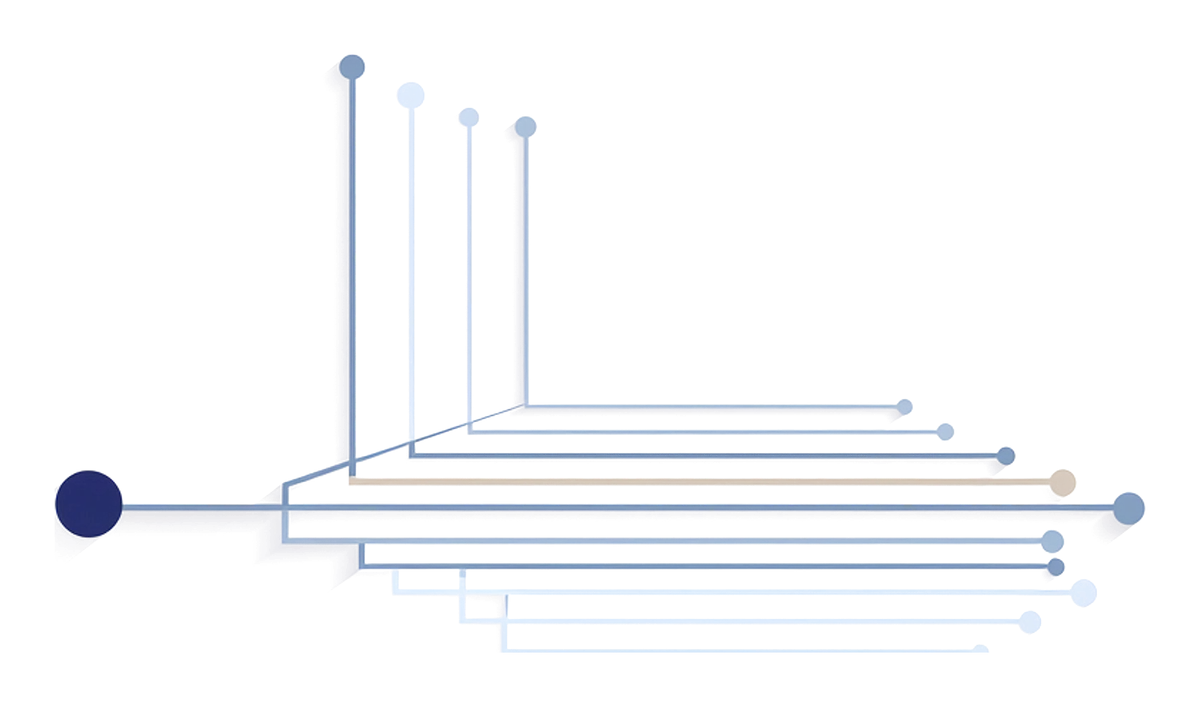
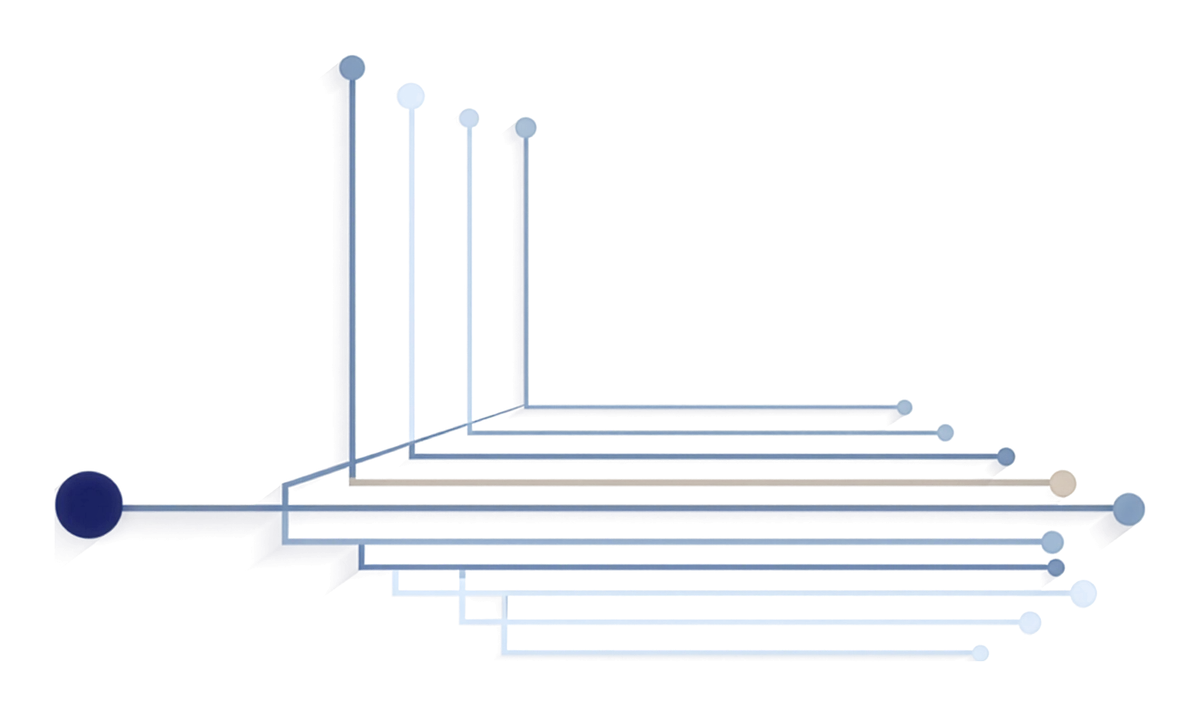
State power distribution (south) hero from Firefly Upscaler 4x (31 of 63)

diff --git a/web/content/image-licences.ts b/web/content/image-licences.ts
@@ -395,7 +395,7 @@ export const imageLicences: ImageLicence[] = [
     file: "public/hero/case-study-state-power-distribution-south-india.webp",
     source: "licensed-generative",
     provider: "Adobe Firefly",
-    reference: "firefly-image5-2026-11-26-spec63-48 (local 4x enlargement; Firefly Upscaler pending)",
+    reference: "firefly-image5-2026-11-26-spec63-48 (Firefly Upscaler 4x)",
     acquired: "2026-11-26",
     depicts:
       "A branching grid of steel and pale blue lines running from one navy source on the left to many endpoints on the right",
